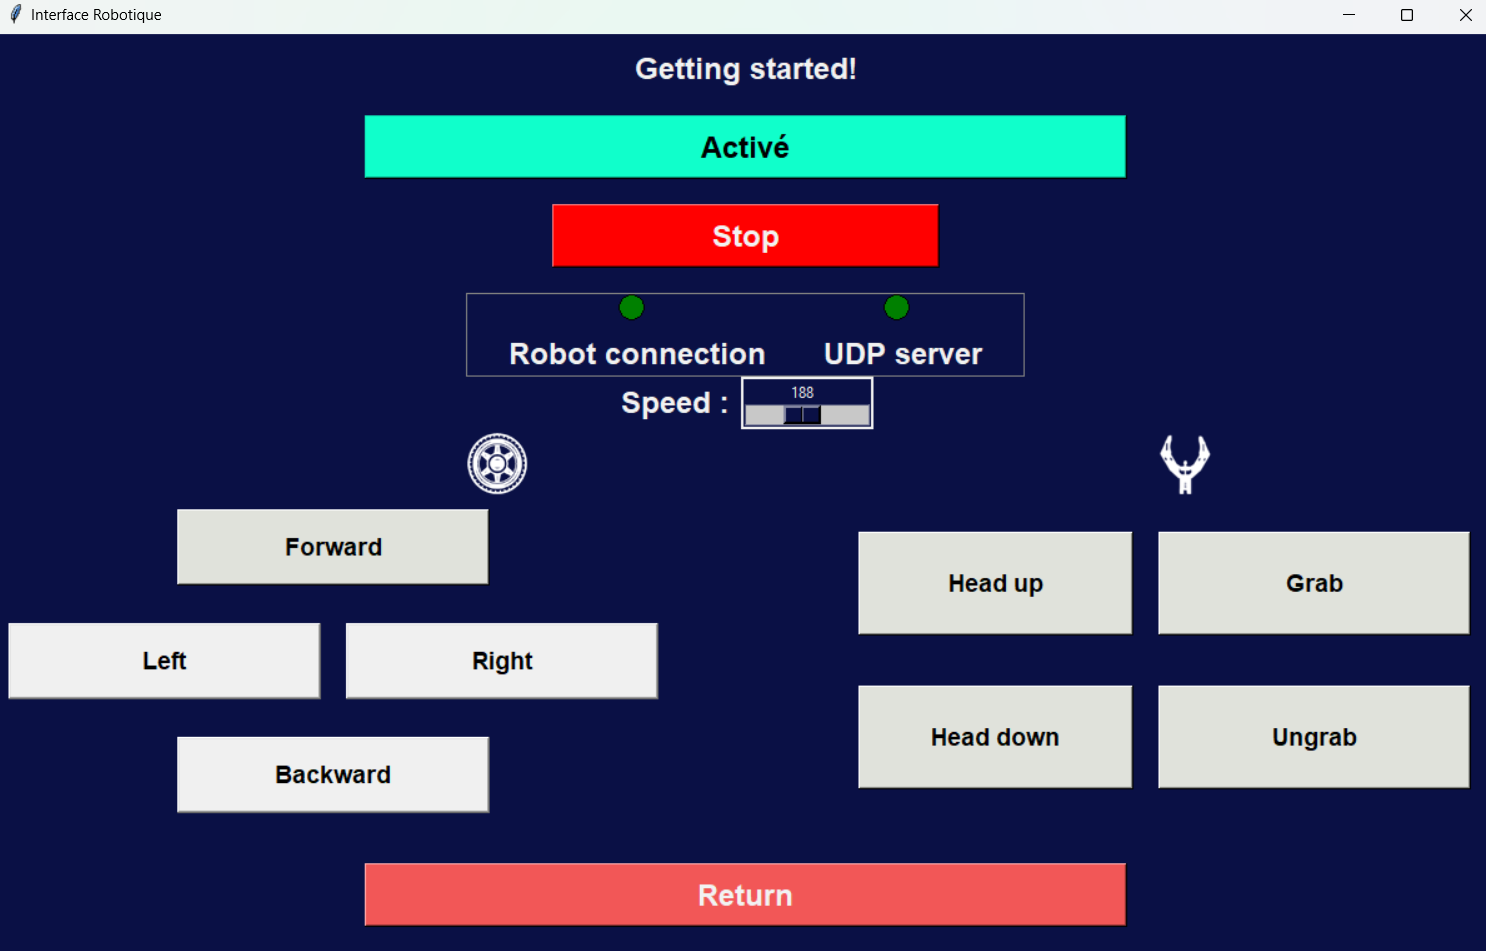
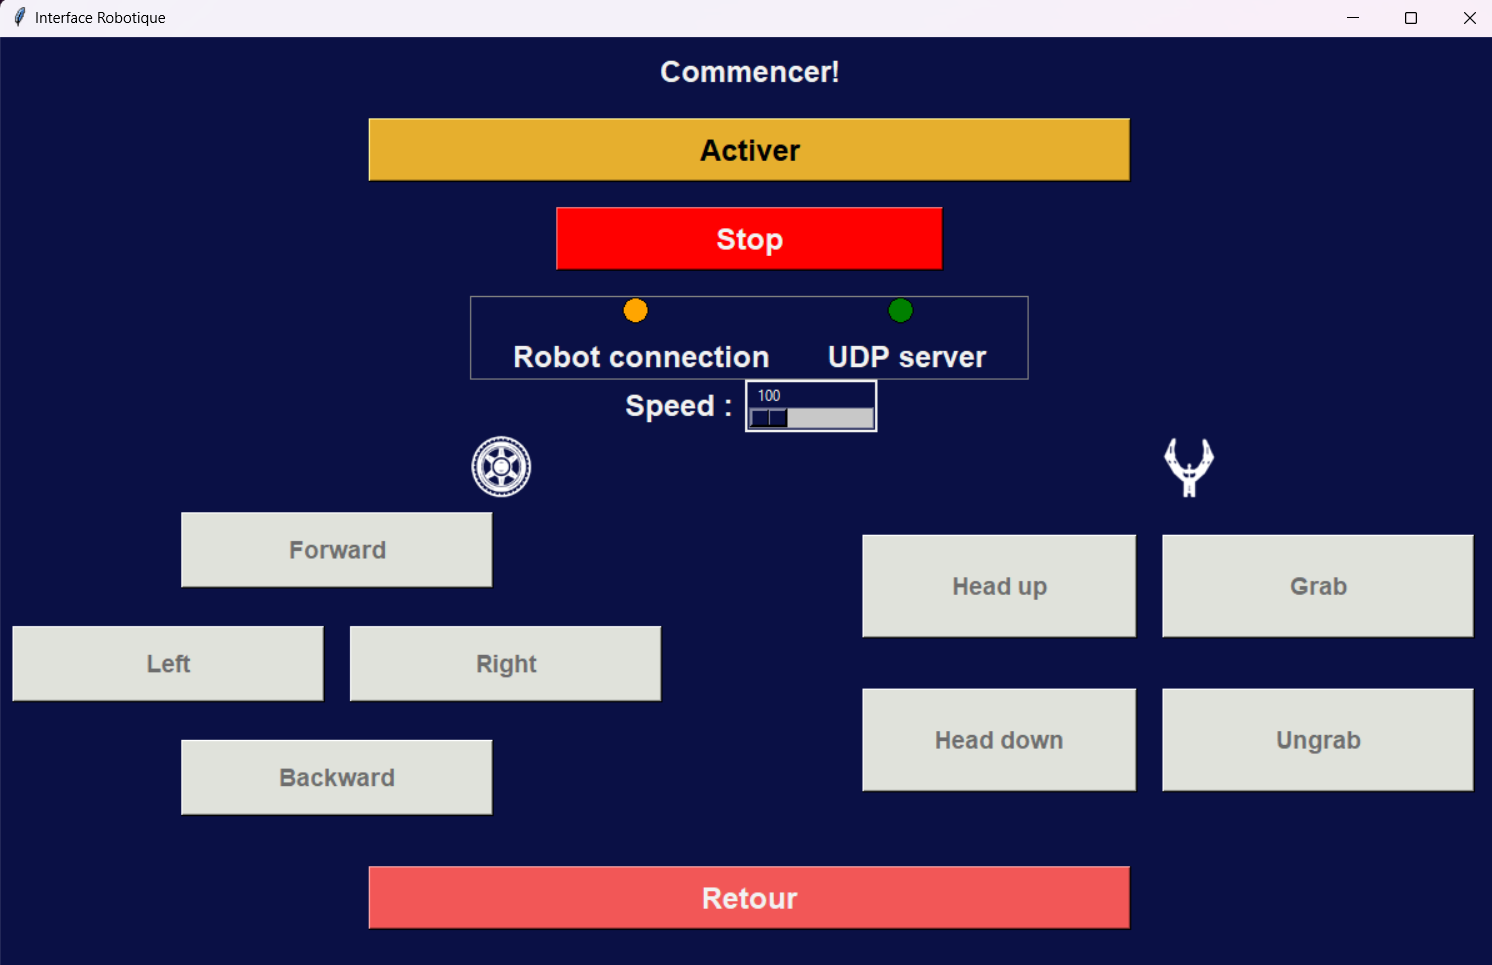
Updated screenshots

diff --git a/Features/interface_wl.py b/Features/interface_wl.py
@@ -211,7 +211,7 @@ def logs_window_pack():
 def first_window_pack():
     # packing
     header_label.configure(
-        text='Welcome to our robotic control interface!', bg=bgColor, fg=whiteColor)
+        text=' Bienvenue dans notre interface robotique!', bg=bgColor, fg=whiteColor)
     # toggle_theme_button.pack(pady=(40, 20))
     header_label.pack(pady=(10, 10))
     welcome_window_img_frame.pack()
@@ -234,7 +234,7 @@ def first_window_unpack():
 
 def getting_started_window_pack():
     first_window_unpack()
-    header_label.configure(text='Getting started!', bg=bgColor, fg=whiteColor)
+    header_label.configure(text='Commencer!', bg=bgColor, fg=whiteColor)
     activate_checkbox.pack(pady=(10, 20))
     stop_button.pack(pady=(0, 20))
     indicators_frame.pack()
@@ -563,7 +563,7 @@ label_body_welcome_image.configure(bg=bgColor)
 # buttons
 getting_started_button = Button(
     main,
-    text='Getting started',
+    text='Commencer',
     width=buttons_width,
     font=font_configuration_lg,
     command=getting_started_window_pack
@@ -587,7 +587,7 @@ logs_button = Button(
 
 exit_button = Button(
     main,
-    text='Exit',
+    text='Quitter',
     width=buttons_width,
     font=font_configuration_lg,
     command=handle_exit_button
@@ -595,7 +595,7 @@ exit_button = Button(
 exit_button.configure(bg=dangerColor, fg=whiteColor)
 return_button = Button(
     main,
-    text='Return',
+    text='Retour',
     width=buttons_width,
     font=font_configuration_lg,
     command=handle_return,
